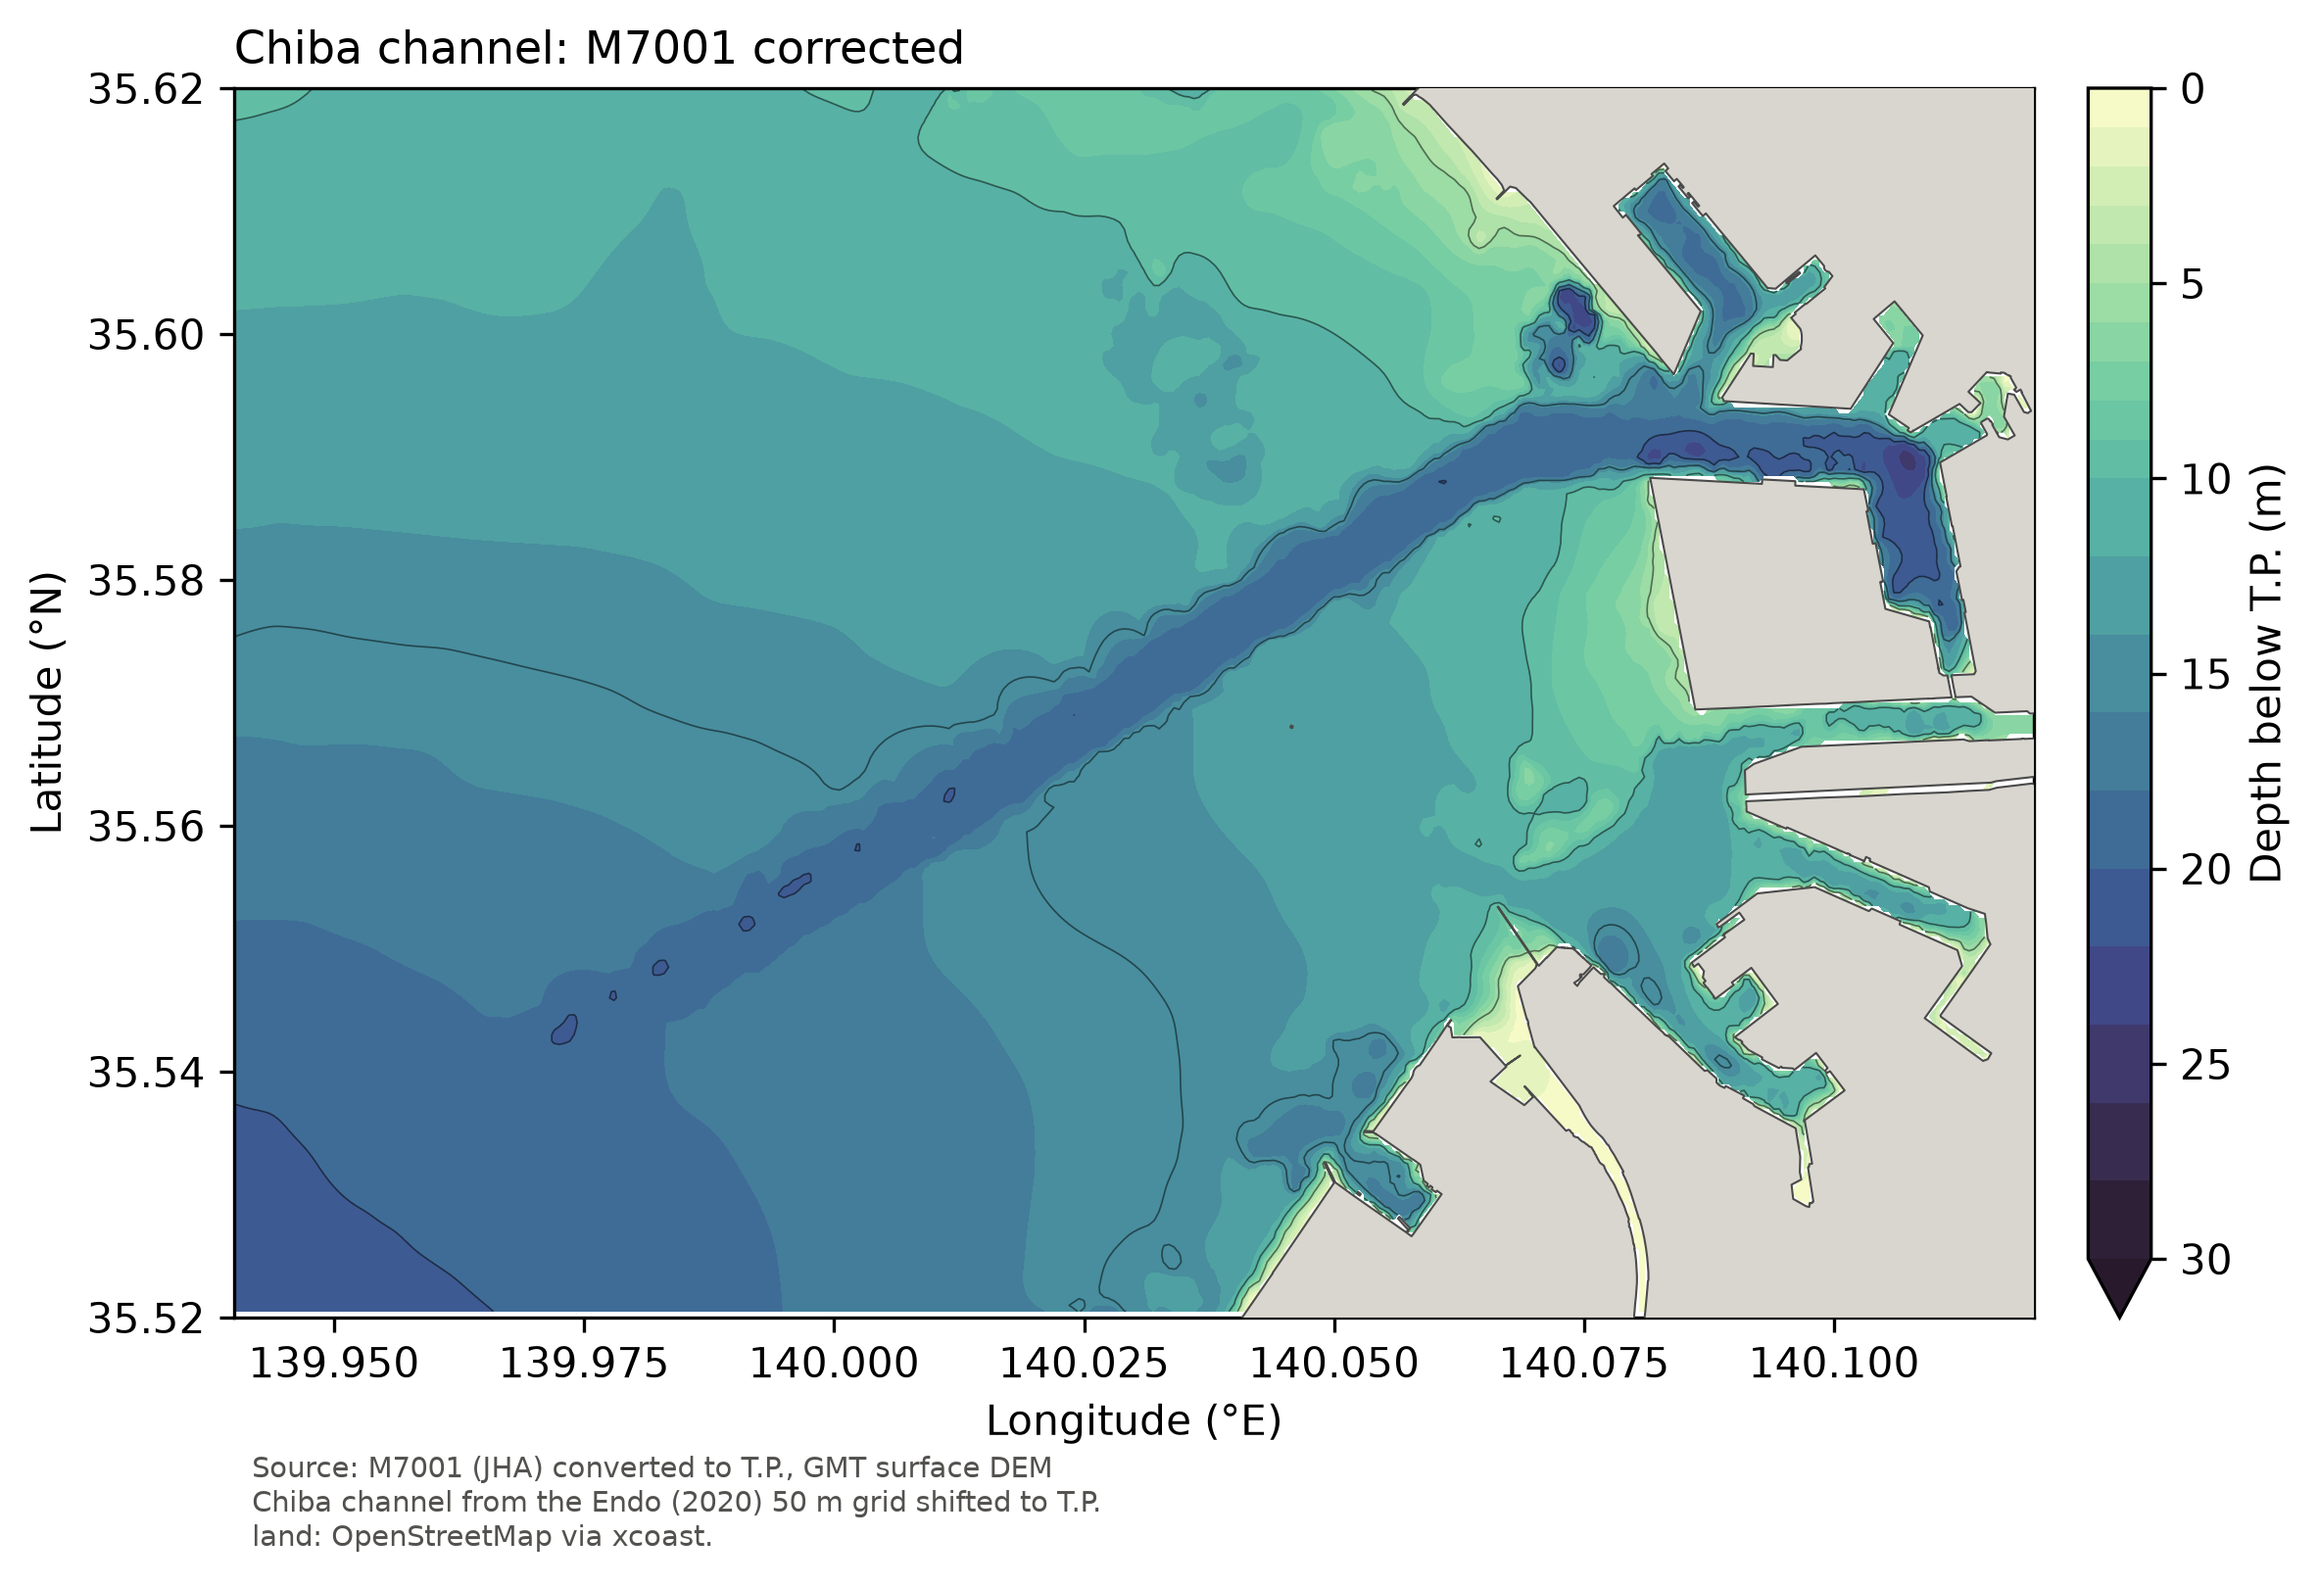
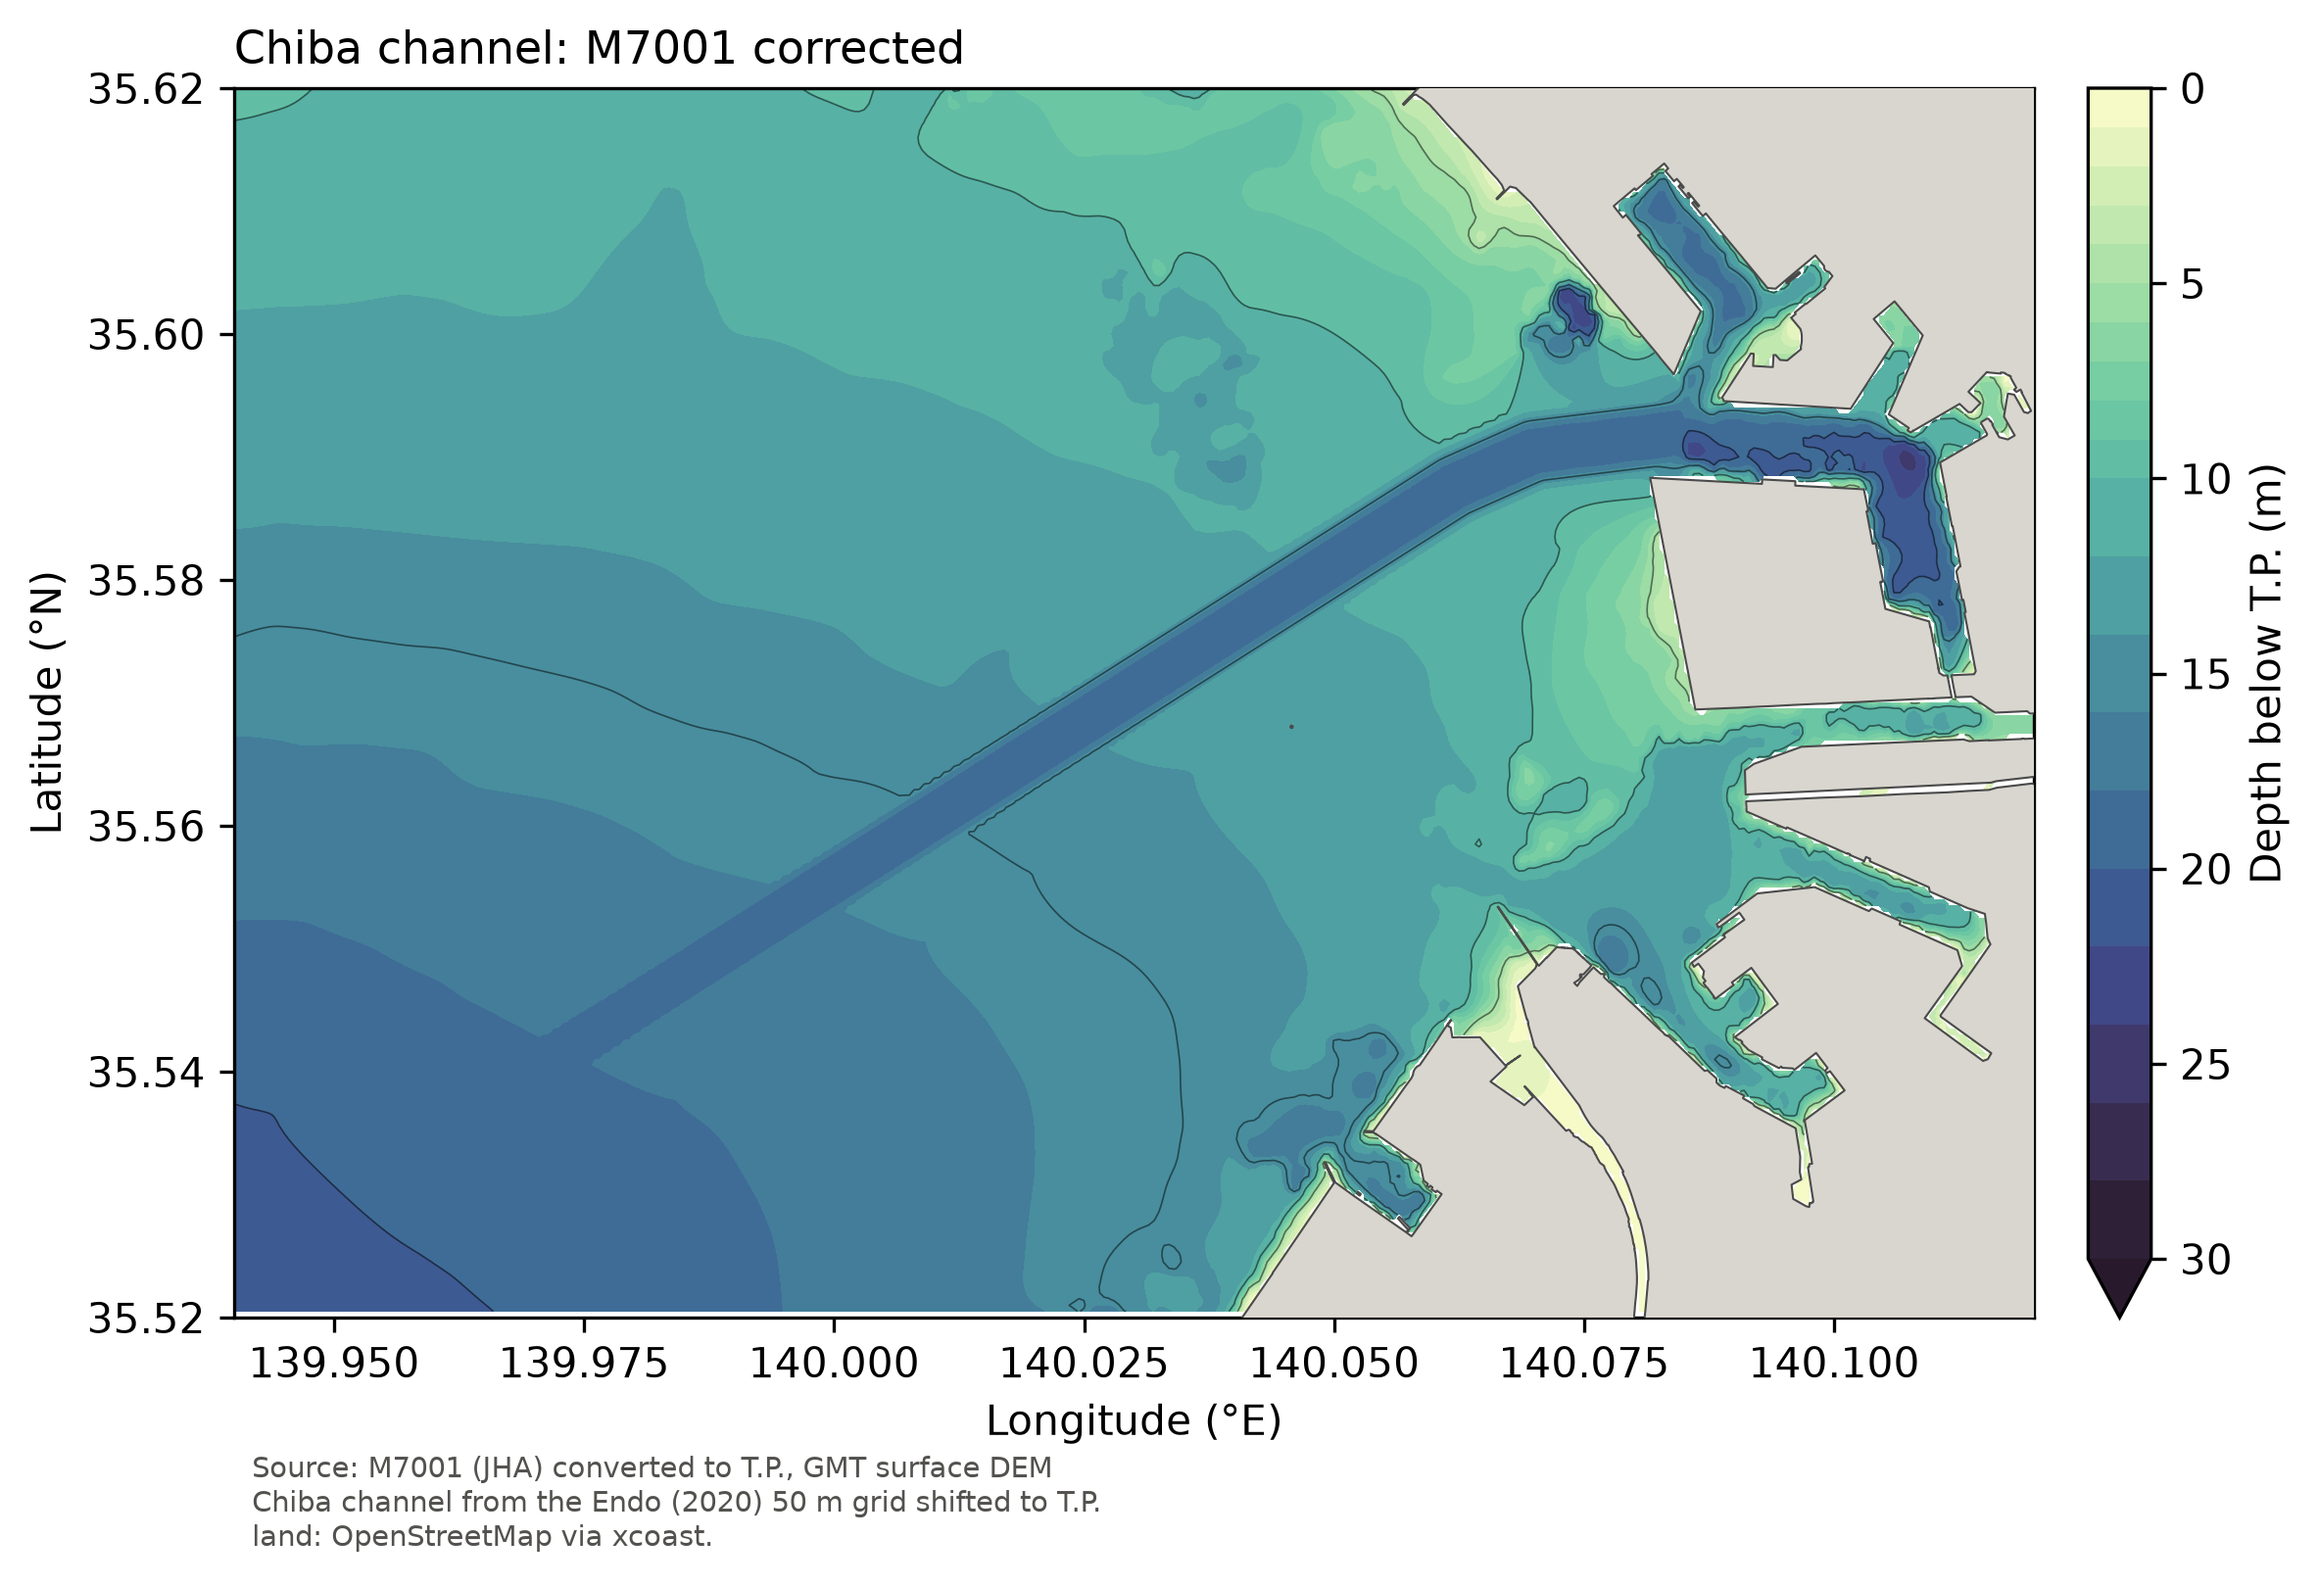
Chiba channel correction: smooth flats and a straight dredged channel
Owner: the flats beside the channel must have smooth contours with the channel
cut straight through them. Within 900 m of the axis M7001 is now refilled by
harmonic (Laplace) interpolation from the values outside, which removes the
channel soundings smeared into the flats; a straight channel is then cut with
the cross-section measured from the Endo grid (floor 18.98 m below T.P. to
175 m from the axis, side slope 0.04) and depth = max(refilled, channel).
The axis is the Endo floor centreline (straight leg, rms 32 m, extended SW to
139.94 E where the natural depth reaches the floor, then the bend to the port
mouth); corridor ends are cut square so the port is untouched.

Claude-Session: https://claude.ai/code/session_01MhU6iDzaQKBG9cKa3nrSvL

diff --git a/scripts/m7001_chiba_channel.py b/scripts/m7001_chiba_channel.py
@@ -3,12 +3,20 @@
 
 M7001 (soundings gridded at 50 m) does not resolve the dredged Chiba channel: along its
 axis M7001 gives 13-17 m in places where the Endo grid shows a flat channel floor at
-about 19 m below T.P. Inside a corridor around the channel axis, M7001 is replaced by
-the Endo depth (already shifted to T.P. on flat seabed, ``endo50m_to_tp.py``) wherever
-Endo is deeper by more than --min-diff; the replacement is tapered to zero between
---half-width and --taper-width from the axis so no step is left at the corridor edge.
-Cells deeper than --max-depth in Endo (the dredged borrow pits, being back-filled) are
-not used. Everything outside the corridor is M7001 unchanged.
+about 19 m below T.P., and the channel soundings it does hold are smeared into bumps on
+the surrounding flat seabed. The correction therefore has two steps:
+
+1. flat seabed: inside a corridor of --fill-width around the channel axis, M7001 is
+   discarded and refilled by a harmonic (Laplace) interpolation from the M7001 values
+   just outside the corridor, giving smooth contours across the corridor;
+2. channel: a straight dredged channel is cut along the axis with the cross-section
+   measured from the Endo grid (shifted to T.P. on flat seabed, ``endo50m_to_tp.py``):
+   flat floor at the Endo median depth within 100 m of the axis, out to
+   --floor-half-width, then --side-slope up to the smooth surface;
+   depth = max(smooth, channel profile). The corridor ends are cut square to the axis.
+
+Endo cells deeper than --max-depth (dredged borrow pits, being back-filled) are not
+used. Everything outside the corridor is M7001 unchanged.
 
 Both grids are on the same 0.0005 deg lattice; the Endo values are taken by nearest cell.
 
@@ -26,9 +34,11 @@ import xarray as xr
 
 from topobathy import config
 
-# channel axis (lon, lat), traced from the Endo grid (deepest cell per meridian)
-AXIS = [(139.965, 35.5375), (139.98, 35.544), (140.00, 35.5555), (140.02, 35.566),
-        (140.04, 35.5755), (140.06, 35.5865), (140.08, 35.5935)]
+#---> jsasaki 2026-10-23: axis = centre of the Endo channel floor (> 18.7 m): straight leg
+# lat = 0.51672 lon - 36.78583 (139.975-140.06 E, rms 32 m), then the bend to the port mouth
+# extended south-west to 139.94 E, where the natural depth reaches the channel floor
+AXIS = [(139.940, 35.5246), (140.062, 35.5876), (140.070, 35.5905), (140.085, 35.5920)]
+#<--- jsasaki 2026-10-23
 
 
 def dist_to_polyline(lon, lat, axis) -> np.ndarray:
@@ -45,6 +55,56 @@ def dist_to_polyline(lon, lat, axis) -> np.ndarray:
     return d
 
 
+#---> jsasaki 2026-10-23: corridor ends cut square to the axis (no round caps into the port)
+def beyond_ends(lon, lat, axis) -> np.ndarray:
+    """True where a point lies before the first or after the last axis vertex, measured
+    along the end segments."""
+    lat0 = np.radians(np.mean([p[1] for p in axis]))
+    kx, ky = 111_320.0 * np.cos(lat0), 111_320.0
+    px, py = lon * kx, lat * ky
+    (x0, y0), (x1, y1) = axis[0], axis[1]
+    before = ((px - x0 * kx) * (x1 - x0) * kx + (py - y0 * ky) * (y1 - y0) * ky) < 0
+    (x0, y0), (x1, y1) = axis[-2], axis[-1]
+    after = ((px - x1 * kx) * (x1 - x0) * kx + (py - y1 * ky) * (y1 - y0) * ky) > 0
+    return before | after
+#<--- jsasaki 2026-10-23
+
+
+#---> jsasaki 2026-10-23: owner: flats beside the channel must be smooth (harmonic refill)
+def harmonic_fill(z: np.ndarray, unknown: np.ndarray, dx: float, dy: float) -> np.ndarray:
+    """Solve Laplace(z) = 0 on the unknown cells; finite neighbours are Dirichlet values,
+    NaN neighbours (land) are no-flux. dx, dy = cell size (m)."""
+    from scipy.sparse import coo_matrix
+    from scipy.sparse.linalg import spsolve
+
+    ny, nx = z.shape
+    idx = -np.ones(z.shape, dtype=np.int64)
+    iy, ix = np.nonzero(unknown)
+    idx[iy, ix] = np.arange(iy.size)
+    rows, cols, vals = [], [], []
+    diag = np.zeros(iy.size)
+    rhs = np.zeros(iy.size)
+    for oy, ox, wgt in ((1, 0, 1 / dy ** 2), (-1, 0, 1 / dy ** 2),
+                        (0, 1, 1 / dx ** 2), (0, -1, 1 / dx ** 2)):
+        jy, jx = iy + oy, ix + ox
+        ok = (jy >= 0) & (jy < ny) & (jx >= 0) & (jx < nx)
+        k = np.nonzero(ok)[0]
+        nb_idx = idx[jy[k], jx[k]]
+        nb_val = z[jy[k], jx[k]]
+        unk = nb_idx >= 0
+        known = ~unk & np.isfinite(nb_val)
+        diag[k[unk | known]] += wgt
+        rows.append(k[unk]); cols.append(nb_idx[unk]); vals.append(np.full(unk.sum(), -wgt))
+        rhs[k[known]] += wgt * nb_val[known]
+    rows.append(np.arange(iy.size)); cols.append(np.arange(iy.size)); vals.append(diag)
+    a = coo_matrix((np.concatenate(vals), (np.concatenate(rows), np.concatenate(cols))),
+                   shape=(iy.size, iy.size)).tocsr()
+    out = z.copy()
+    out[iy, ix] = spsolve(a, rhs)
+    return out
+#<--- jsasaki 2026-10-23
+
+
 def main() -> int:
     ap = argparse.ArgumentParser(description=__doc__,
                                  formatter_class=argparse.RawDescriptionHelpFormatter)
@@ -52,9 +112,15 @@ def main() -> int:
     ap.add_argument("--m7001", type=Path, default=b / "M7001" / "TP" / "M7001_dem_tokyobay_50m.nc")
     ap.add_argument("--endo", type=Path,
                     default=b / "tokyobay_endo" / "nc" / "endo_50m_lonlat_tp.nc")
-    ap.add_argument("--half-width", type=float, default=500.0, help="full weight (m from axis)")
-    ap.add_argument("--taper-width", type=float, default=700.0, help="zero weight (m from axis)")
-    ap.add_argument("--min-diff", type=float, default=0.3, help="Endo deeper than M7001 by (m)")
+    #---> jsasaki 2026-10-23: harmonic refill of the flats + channel cut (replaces the taper)
+    ap.add_argument("--fill-width", type=float, default=900.0,
+                    help="corridor half-width refilled smoothly (m from axis)")
+    # jsasaki 2026-10-23: straight channel cross-section measured from the Endo grid
+    ap.add_argument("--floor-half-width", type=float, default=175.0,
+                    help="half-width of the flat channel floor (m)")
+    ap.add_argument("--side-slope", type=float, default=0.04,
+                    help="side slope (m/m) from the floor edge up to the flat seabed")
+    #<--- jsasaki 2026-10-23
     ap.add_argument("--max-depth", type=float, default=20.0, help="ignore Endo deeper than (m)")
     ap.add_argument("--out", type=Path, required=True)
     args = ap.parse_args()
@@ -69,12 +135,24 @@ def main() -> int:
 
     LON, LAT = np.meshgrid(sub.lon.values, sub.lat.values)
     dist = dist_to_polyline(LON, LAT, AXIS)
-    wgt = np.clip((args.taper_width - dist) / (args.taper_width - args.half_width), 0.0, 1.0)
+    #---> jsasaki 2026-10-23: step 1 smooth flats (harmonic refill), step 2 cut the channel
+
     d_m, d_e = -sub.values, -endo.values
-    use = (wgt > 0) & np.isfinite(d_m) & np.isfinite(d_e) & (d_e - d_m > args.min_diff) \
-        & (d_e <= args.max_depth)
-    delta = np.where(use, wgt * (d_e - d_m), 0.0)  # deepening (m, >= 0)
-    new_sub = sub.values - delta
+    lat0 = np.radians(float(sub.lat.mean()))
+    dx = 0.0005 * 111_320.0 * np.cos(lat0)
+    dy = 0.0005 * 111_320.0
+    corridor = (dist <= args.fill_width) & np.isfinite(d_m) & ~beyond_ends(LON, LAT, AXIS)
+    smooth = harmonic_fill(np.where(corridor, np.nan, d_m), corridor, dx, dy)
+    ok_e = np.isfinite(d_e) & (d_e <= args.max_depth)
+    # channel floor depth: median Endo within 100 m of the axis
+    floor = float(np.median(d_e[corridor & ok_e & (dist <= 100.0)]))
+    profile = floor - args.side_slope * np.clip(dist - args.floor_half_width, 0.0, None)
+    channel = corridor & (profile > smooth)
+    new_depth = np.where(corridor, smooth, d_m)
+    new_depth = np.where(channel, profile, new_depth)
+    new_sub = -new_depth
+    delta = new_depth - d_m  # + = deeper than M7001
+    #<--- jsasaki 2026-10-23
 
     out_elev = elev.copy()
     out_elev.loc[dict(lon=sub.lon, lat=sub.lat)] = new_sub
@@ -82,25 +160,35 @@ def main() -> int:
     out["elevation"] = out_elev.astype("float32")
     out["elevation"].attrs = dict(ds["elevation"].attrs)
 
-    changed = delta > 0
-    lat0 = np.radians(35.57)
-    area_km2 = changed.sum() * (0.0005 * 111.32 * np.cos(lat0)) * (0.0005 * 111.32)
+    #---> jsasaki 2026-10-23: summary for the two-step correction
+    cell_km2 = dx * dy / 1e6
     axis_txt = "; ".join(f"{lo:.3f}E {la:.4f}N" for lo, la in AXIS)
-    summary = (f"{int(changed.sum())} cells ({area_km2:.2f} km2) deepened; "
-               f"deepening median {np.median(delta[changed]):.2f} m, max {delta.max():.2f} m; "
-               f"corrected channel floor median {np.median(-new_sub[changed & (wgt == 1)]):.2f} m "
-               f"below T.P.")
+    flat = corridor & ~channel
+    summary = (f"corridor {int(corridor.sum())} cells ({corridor.sum() * cell_km2:.2f} km2), "
+               f"of which channel {int(channel.sum())} cells ({channel.sum() * cell_km2:.2f} km2); "
+               f"flat-seabed change (smooth - M7001) median {np.median(delta[flat]):+.2f} m, "
+               f"5-95 % {np.percentile(delta[flat], 5):+.2f} to {np.percentile(delta[flat], 95):+.2f} m; "
+               f"channel deepening median {np.median(delta[channel]):+.2f} m, "
+               f"max {delta[channel].max():+.2f} m; channel floor median "
+               f"{floor:.2f} m below T.P. (Endo median within 100 m of the axis)")
+    #<--- jsasaki 2026-10-23
     out.attrs = dict(ds.attrs)
     out.attrs.update({
         "title": "M7001 50 m T.P. DEM of Tokyo Bay, Chiba channel corrected with the Endo (2020) 50 m grid",
         "chiba_channel_correction": (
-            "M7001 does not resolve the dredged Chiba channel. Inside a corridor around the "
-            f"channel axis ({axis_txt}), the depth is replaced by the Endo (2020) 50 m grid "
-            "wherever Endo is deeper than M7001 by more than "
-            f"{args.min_diff} m: depth = M7001 + w * (Endo - M7001), with w = 1 within "
-            f"{args.half_width:.0f} m of the axis, tapering linearly to 0 at {args.taper_width:.0f} m. "
-            f"Endo cells deeper than {args.max_depth} m (dredged borrow pits, being back-filled) "
-            "are not used. Only deepening is applied; outside the corridor the grid is M7001 unchanged."),
+            # jsasaki 2026-10-23: describe the two-step correction
+            "M7001 does not resolve the dredged Chiba channel and smears its soundings into "
+            "bumps on the flat seabed beside it. (1) Flat seabed: within "
+            f"{args.fill_width:.0f} m of the channel axis ({axis_txt}) M7001 is discarded and "
+            "refilled by harmonic (Laplace) interpolation from the M7001 values just outside "
+            "this corridor (land cells no-flux; the corridor ends are cut square to the axis). "
+            "(2) Channel: a straight dredged channel is cut along the axis with the cross-section "
+            "measured from the Endo (2020) 50 m grid: flat floor at "
+            f"{floor:.2f} m below T.P. (Endo median within 100 m of the axis) to "
+            f"{args.floor_half_width:.0f} m from the axis, side slope {args.side_slope} m/m up to "
+            "the refilled surface; depth = max(refilled, channel profile). Endo cells deeper than "
+            f"{args.max_depth} m (dredged borrow pits, being back-filled) are not used. Outside "
+            "the corridor the grid is M7001 unchanged."),
         "chiba_channel_correction_source": (
             f"{args.endo}: Endo (2020) 50 m Tokyo Bay grid shifted to T.P. by its flat-seabed "
             "median offset from M7001 (scripts/endo50m_to_tp.py)"),
